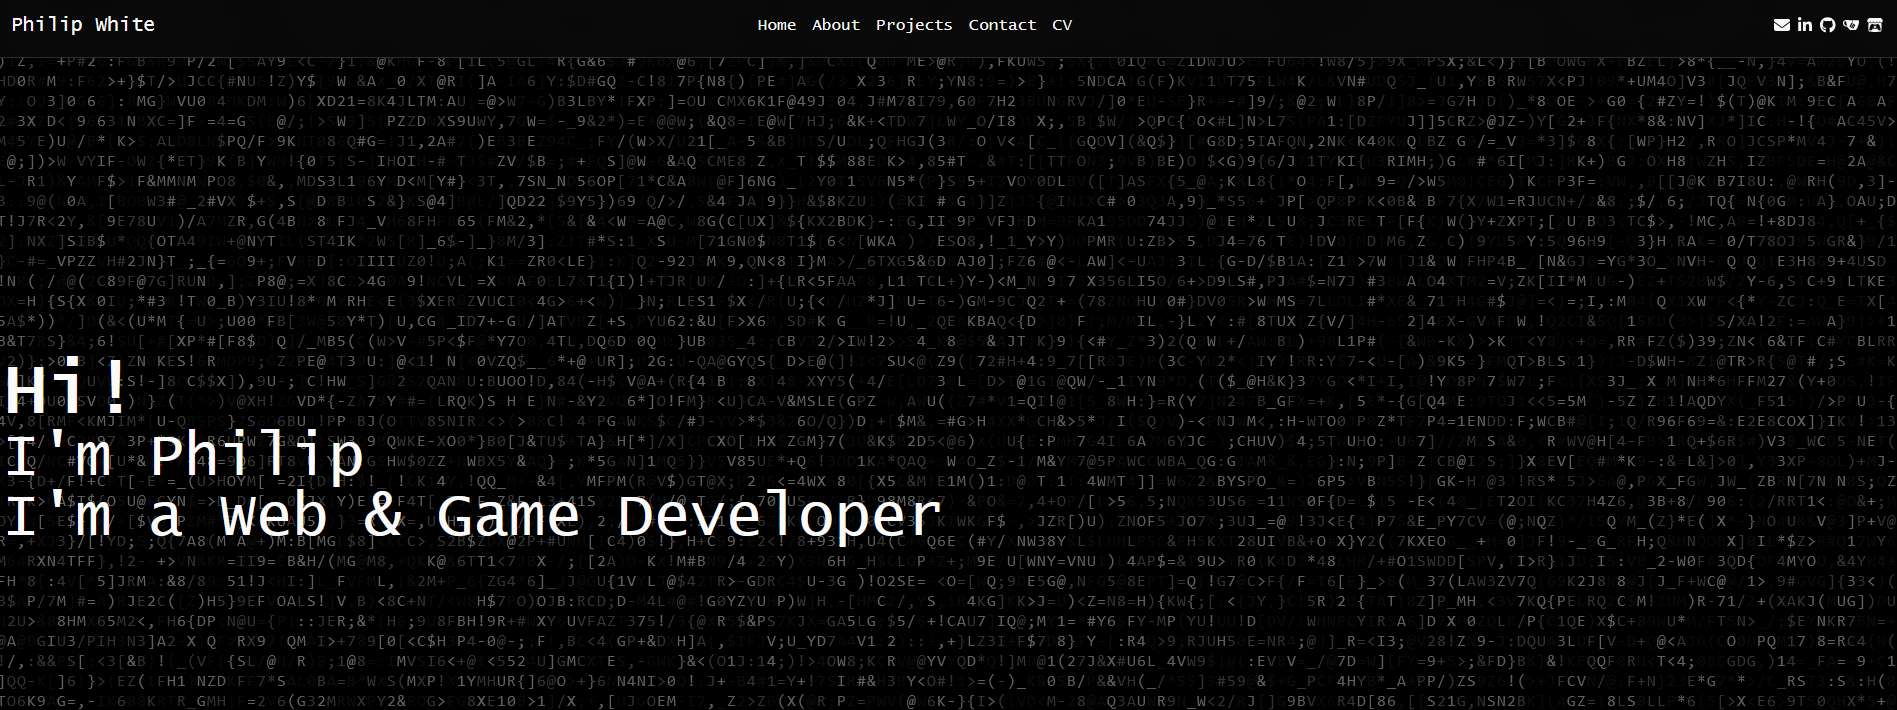
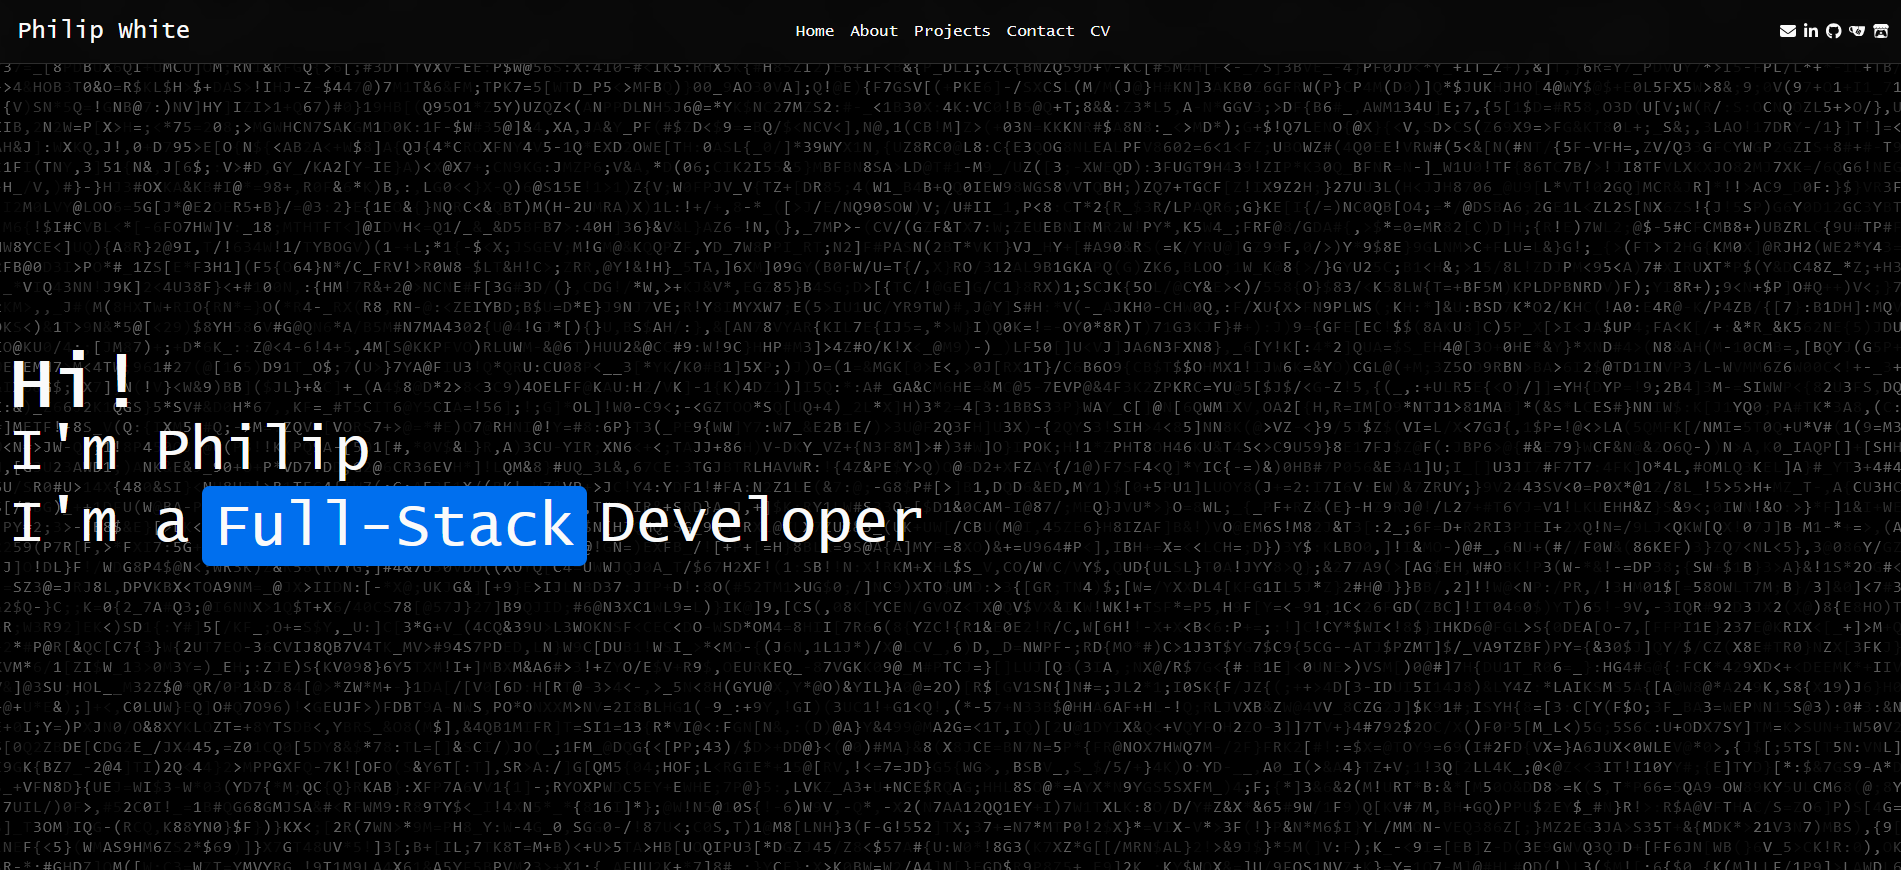
Update Introduction with Rotating Roles Component

Changed region(s): [[0.0, 0.0, 1.0, 1.0]]

diff --git a/app/components/HomePage/components/RotatingRoles.tsx b/app/components/HomePage/components/RotatingRoles.tsx
@@ -1,0 +1,61 @@
+"use client";
+import { LayoutGroup, motion } from "framer-motion";
+import RotatingText from "../../ReactBits/RotatingText";
+import DecryptedText from "../../ReactBits/DecryptedText";
+
+const RotatingRoles = () => {
+  return (
+    <LayoutGroup>
+      <motion.p className="flex flex-wrap center-items gap-3" layout>
+        <motion.span
+          className="pt-0.5 sm:pt-1 md:pt-2"
+          layout
+          transition={{ type: "spring", damping: 30, stiffness: 400 }}
+        >
+          <DecryptedText
+            parentClassName="sm:text-6xl text-4xl"
+            text="I'm a"
+            animateOn="view"
+            revealDirection="start"
+            sequential={true}
+            speed={50}
+          />
+        </motion.span>
+        <RotatingText
+          texts={[
+            "Frontend",
+            "Gameplay",
+            "Backend",
+            "Multiplayer",
+            "Full-Stack",
+          ]}
+          mainClassName="px-2 sm:px-2 md:px-3 bg-primary overflow-hidden py-0.5 sm:py-1 md:py-2 sm:text-6xl text-4xl justify-center text-center rounded-lg"
+          staggerFrom={"last"}
+          initial={{ y: "100%" }}
+          animate={{ y: 0 }}
+          exit={{ y: "-120%" }}
+          staggerDuration={0.025}
+          splitLevelClassName="overflow-hidden pt-0.5 sm:pt-1 md:pt-1"
+          transition={{ type: "spring", damping: 30, stiffness: 400 }}
+          rotationInterval={2000}
+        />
+        <motion.span
+          className="pt-0.5 sm:pt-1 md:pt-2"
+          layout
+          transition={{ type: "spring", damping: 30, stiffness: 400 }}
+        >
+          <DecryptedText
+            parentClassName="sm:text-6xl text-4xl"
+            text="Developer"
+            animateOn="view"
+            revealDirection="start"
+            sequential={true}
+            speed={50}
+          />
+        </motion.span>
+      </motion.p>
+    </LayoutGroup>
+  );
+};
+
+export default RotatingRoles;

diff --git a/app/components/HomePage/Introduction.tsx b/app/components/HomePage/Introduction.tsx
@@ -1,5 +1,6 @@
 import DecryptedText from "../ReactBits/DecryptedText";
 import LetterGlitch from "../ReactBits/LetterGlitch";
+import RotatingRoles from "./components/RotatingRoles";
 
 const Introduction = () => {
   return (
@@ -22,21 +23,14 @@ const Introduction = () => {
             speed={50}
           />
           <DecryptedText
-            parentClassName="sm:text-6xl text-4xl"
+            parentClassName="sm:text-6xl text-4xl pb-1"
             text="I'm Philip"
             animateOn="view"
             revealDirection="start"
             sequential={true}
             speed={50}
           />
-          <DecryptedText
-            parentClassName="sm:text-6xl text-4xl"
-            text="I'm a Web & Game Developer"
-            animateOn="view"
-            revealDirection="start"
-            sequential={true}
-            speed={50}
-          />
+          <RotatingRoles />
         </div>
       </div>
     </div>
